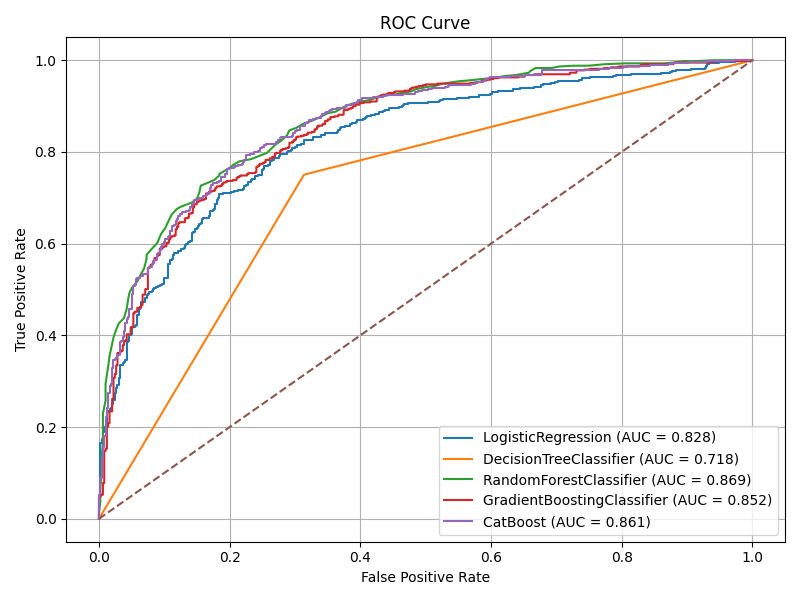
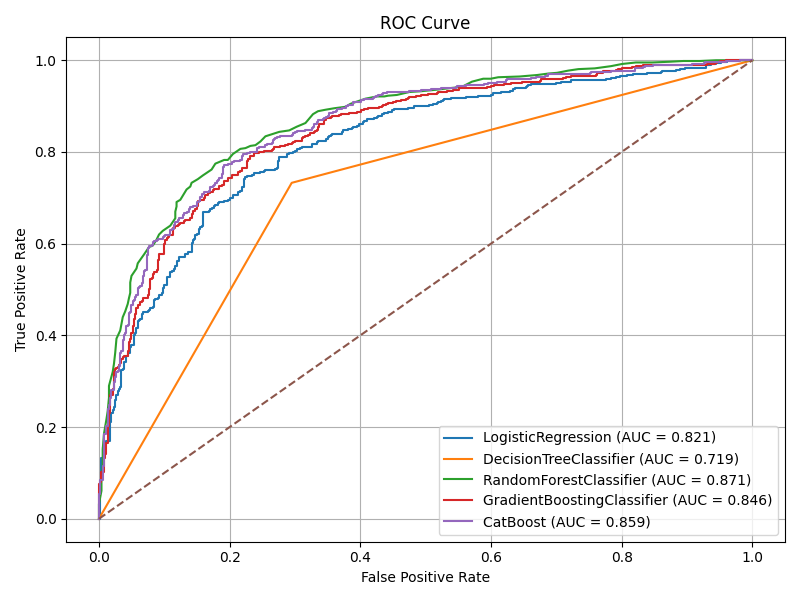
models after grid in config

diff --git a/src/config.py b/src/config.py
@@ -11,9 +11,20 @@ from sklearn.metrics import make_scorer, precision_score
 MODELS = {
     "LogisticRegression": LogisticRegression(max_iter=1000, random_state=42),
     "DecisionTreeClassifier": DecisionTreeClassifier(random_state=42),
-    "RandomForestClassifier": RandomForestClassifier(random_state=42),
+    "RandomForestClassifier": RandomForestClassifier(
+        #max_depth=None,
+        #max_features="sqrt",
+        #min_samples_leaf=2,
+        #min_samples_split=5,
+        #n_estimators=300,
+        random_state=42),
     "GradientBoostingClassifier": GradientBoostingClassifier(random_state=42),
-    "CatBoost": CatBoostClassifier(random_state=42,allow_writing_files=False,verbose=False)
+    "CatBoost": CatBoostClassifier(
+        #depth=8,
+        #iterations=500,
+        #l2_leaf_reg=3,
+        #learning_rate=0.1,
+        random_state=42,allow_writing_files=False,verbose=False)
 }
 
 SCORING = {
